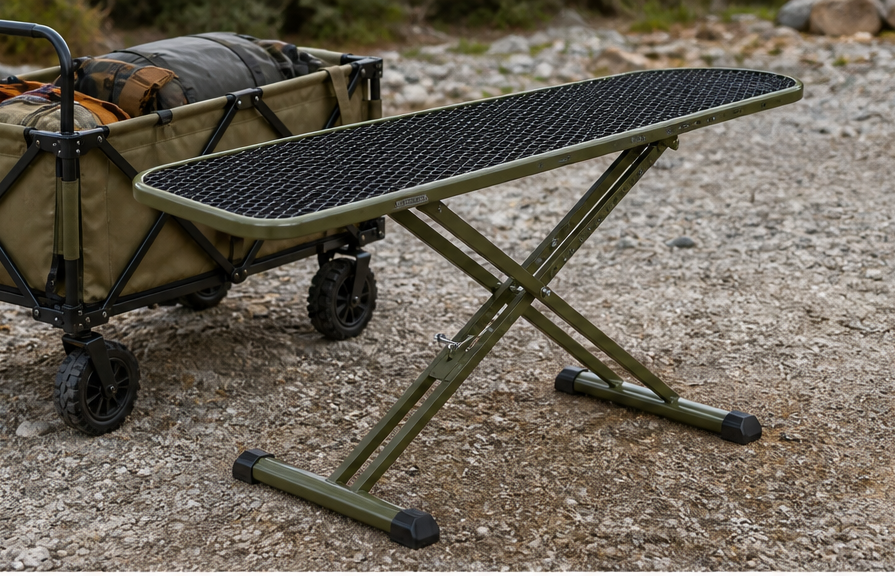
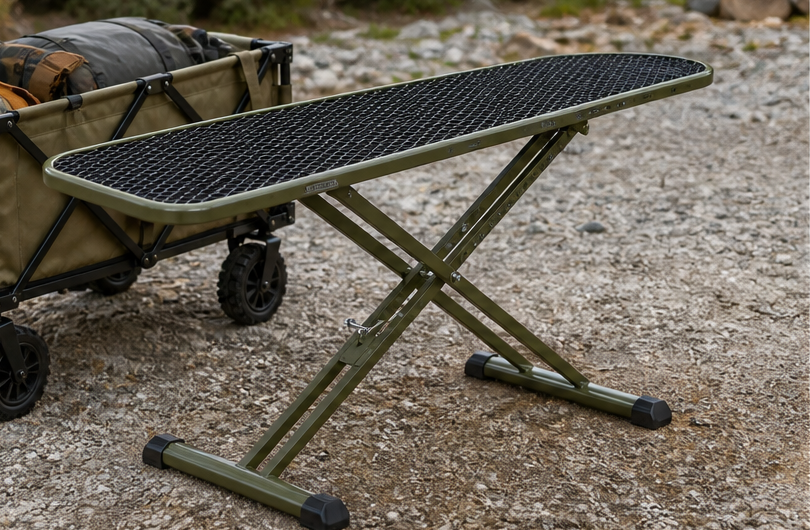
Match camp field cover crop

diff --git a/camp-field-utility-board/index.html b/camp-field-utility-board/index.html
@@ -98,7 +98,10 @@
       min-height: inherit;
       object-fit: cover;
     }
-    .hero-visual { min-height: min(62vh, 620px); }
+    .hero-visual {
+      min-height: 0;
+      aspect-ratio: 81 / 53;
+    }
     .wide-visual { height: 72vh; }
     .contain img { object-fit: contain; background: #f3f3ee; }
     .note {
